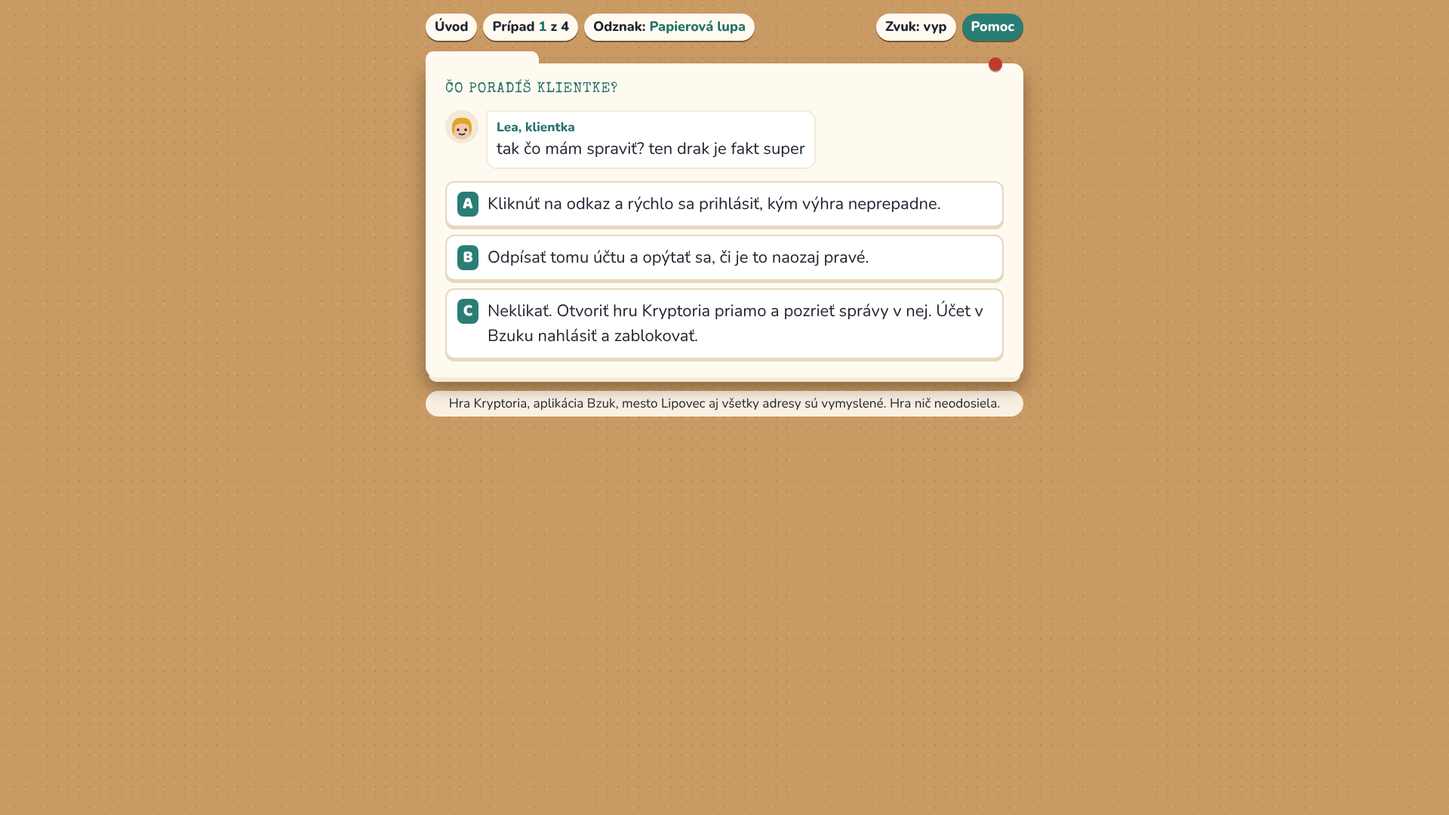
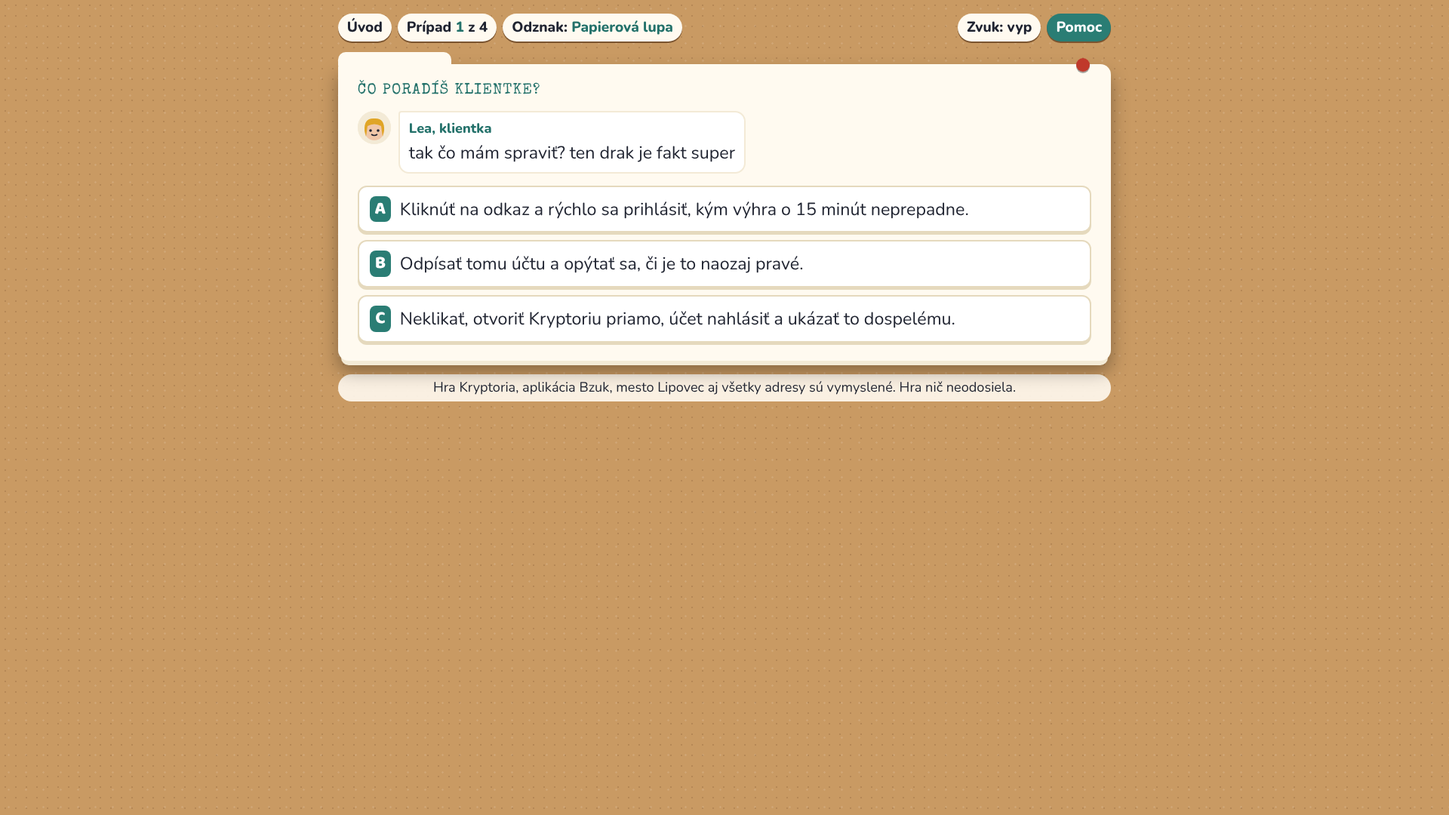
Re-reviews (sceptic PASS; fraud, psych, QA with small remaining fixes) and help-card sources
Claude-Session: https://claude.ai/code/session_01KckcPvBkZChCeHsaDHwFmr

Changed region(s): [[0.2188, 0.0, 0.7812, 0.5194]]

diff --git a/docs/reviews/psych-mvp.md b/docs/reviews/psych-mvp.md
@@ -151,3 +151,63 @@ Fix findings 3–6 and the teen track meets the bar.
 | 14 | Accessibility | PASS | minor 20 | minor 21 |
 
 Blocker 2 touches Red Line 8, so `sceptic-reviewer` should see it. Before a classroom pilot, a qualified human (a child or school psychologist) should review the money-mule wording and the help cards, as `docs/PSYCHOLOGY.md` already notes.
+
+---
+
+## Re-review 2026-11-25
+
+Reviewer: `learning-psychologist` (AI advisor, not a licensed psychologist). Method: I read the current `content/`, `src/ui/CaseView.tsx`, `src/ui/StartScreen.tsx`, `src/ui/Help.tsx`, `src/app.tsx` and `src/content/schema.ts`. I could not run git or the game in this session, so this is a close read of the play path in code, not a timed play-through. QA's play-test still covers how it plays.
+
+### Verdict: FAIL (2 small must-fix items, both one-line YAML edits)
+
+Both blockers are resolved, and so are 6 of the 7 majors. The two remaining must-fix items are small, but both work against the "harder" bar or the worked example, so I hold the verdict until they land.
+
+### Status of the first-round findings
+| # | Status | Note |
+|---|---|---|
+| 1 | Resolved | T1 note now uses `fraud-researcher`'s hedged wording („môže byť trestný čin“), followed in the same panel by „ešte dnes to povedz dospelému“. It no longer says Oto committed a crime. Suggestion S3 below. |
+| 2 | Resolved | J1 `verify`: „Neklikať, otvoriť Kryptoriu priamo, účet nahlásiť a ukázať to dospelému.“, with `tells_adult: true`. |
+| 3 | Resolved | „Lipovec · internetové prípady“ / „Vyber si trasu“, the agreed note, „odporúčame …“ ages, „Uzavreté: n/4“, and each card carries its own `data-theme`. |
+| 4 | Resolved for length | Teen best options are no longer clearly the longest: T1 10 words against 8–11, T4 11 against 4–13. In T2 (12 against 11) and T3 (13 against 11) the best is still slightly the longest, which is acceptable. A new cue has replaced the length cue, though: see must-fix R1. |
+| 5 | Resolved | The T4 brief now uses the wording proposed in finding 5. The school call has moved to `verify.known-numbers`. |
+| 6 | Resolved | The debrief now has 4 pages: Pravidlo, Stopy, Ak sa to už stalo, Stopa v príbehu. The exit buttons appear only on the last page, so every player passes „Ak sa to už stalo“, which meets Red Line 4. The help line shows on pages 3 and 4. Page 1 does not show the first found clue, which I accept. |
+| 7 | Partly resolved | The recall stage is built and filled for J2–J4 and T2–T4. It is unscored, gives calm feedback („Tentoraz nie.“ followed by the full rule), and the correct answer sits in a different position from case to case. The rule restatements are gone from the intros. The worked example is still not wired up: see must-fix R2. |
+| 8 | Resolved | T1 `lock_up.correct`: „… Oto to ešte večer povie otcovi a ráno idú spolu do banky.“ |
+| 9 | Resolved, with suggestions | Three topic cards: vydieranie / intímne fotky, kyberšikana, „Je mi veľmi ťažko“. See H1–H4. |
+| 10–19 | Resolved | T3 rule and quick-round item, T4 recovery order, reveal lines in T2 and T4, „Dax nie je skutočný človek. Je to maska.“, J4 rule and recap, J3 rule, stamp drawn in accent, help line for money and accounts in T2 and T3 (T1 points to Pomoc in its note). |
+| 20 | Open (deferred) | Evidence tabs. Still needed before the classroom pilot, for phones. |
+| 21 | Partly resolved | „Preskočiť úvod“ is on intros with more than 2 lines. Arc scenes have no skip link. Minor. |
+
+### Must-fix
+**R1. Teen (and junior) decisions: the only option that mentions an adult is always the best one.** (C10 Track fit, the teen "harder" bar)
+- Where: `decision.options` in T1–T4. The best option names „dospelému“, „mame“ or „otcovi“, and no other option does. J1–J4 follow the same pattern, which I accept for 11–12-year-olds.
+- Problem: after two cases a teen can choose by spotting the adult instead of judging the evidence. This is the same guessability problem as finding 4, with a different cue.
+- Smallest fix: let one distractor in at least two teen cases mention an adult but get the *timing* wrong, which is itself the lesson. Both stay `outcome: ok`, and their existing `calm` lines already say "ešte dnes":
+  - T3 `sleep.text`: **„Reštartovať mobil, ísť spať a ráno to povedať mame.“**
+  - T2 `warn-tomorrow.text`: **„Varovať kamarátov a zajtra to povedať otcovi.“**
+- Red Line 8 still holds, because the best option still tells an adult. `sceptic-reviewer` should confirm that an "adult, but later" option scored as `ok` is acceptable.
+
+**R2. J1 and T1 promise a worked example that does not happen.** (§4 Worked example, C13)
+- Where: the J1 intro says „Prvú ti ukážem. Odosielateľa Lea nepozná …“ and the T1 intro says „Prvú stopu ti ukážem: veľa peňazí za takmer nič.“, but `scan.pre_found` is empty in both files. The player is told the clue is shown, then has to find it, and the meter starts at 0.
+- Fix: in `j1-drak-zadarmo.yaml`, add `pre_found: [sender]` under `scan:`. In `t1-lahka-brigada.yaml`, add `pre_found: [pay]`. Then check that the clue-star minimums still work: either keep them, which makes the stars one clue easier, or raise `min` by 1.
+
+### Help topic cards (most sensitive)
+The wording is good: no shame, no fear, „Nie je to tvoja chyba.“ comes first, 116 111 is named in every card, the trusted adult is always there, there are no gendered forms, and „S tým netreba zostať osamote“ avoids *sám/sama*. The evidence advice („Správy nemaž … ale nikomu ich nepreposielaj“) is right for intimate images. These are suggestions, not blockers:
+- **H1. Grooming is covered only through images.** Red Line 8 names grooming, but the card's heading is about blackmail and photos. Add one sentence to `pomoc-vydieranie.text`, after „Nie je to tvoja chyba.“: **„Ak ťa niekto cudzí online žiada o tajnosť, fotky alebo stretnutie, povedz to dospelému.“** The heading could become **„Niekto ma vydiera, chce fotky alebo stretnutie“**.
+- **H2. The fear of being judged is the main reason young people stay silent.** Add to the end of `pomoc-vydieranie.text`: **„Na linke 116 111 ťa nikto nesúdi a nemusíš povedať meno.“** The anonymity part is already verified in the LDI entry.
+- **H3. The topic cards sit below 9 contact cards.** A distressed child has to scroll a long way. Add a short line under `intro` that points to them, for example **„Keď ide o niečo ťažké, karty nájdeš nižšie.“**, or move the topic section directly after 116 111.
+- **H4. The trusted-adult sentence appears twice on each topic card**: once in the card text and again in `help.trusted_adult`, which `Help.tsx` adds under every card. Drop the repeat in `Help.tsx` for topic cards.
+- The card advice lines still need `fraud-researcher` sources (noted in `help.yaml`). A qualified human should review these three cards before the pilot. That decision is Roman's.
+
+### Other suggestions
+- **S1.** T2 and T3: the best option is still 1–2 words longer than any other. If R1 is done, this does not matter.
+- **S2.** Recall runs before the brief, even when the previous case was not played. That is fine while cases unlock in order.
+- **S3.** T1 note, optional: replace „Platí to, aj keď si to človek neuvedomuje.“ with **„Preto je dôležité zastaviť čo najskôr.“** This keeps the reason to act and drops the extra weight. It needs `fraud-researcher` to accept it.
+- **S4.** Arc scenes have no „Preskočiť“ link (finding 21, the remaining part).
+
+### Teen bar, as played (code read)
+**Yes once R1 lands.**
+- **Different:** a neutral start screen, Ozvena styling on its own card, the podcast desk, the faceless „maska“ opponent, and a calm resolution for Oto.
+- **Harder:** 2–3 artefacts with decoys, recall of earlier rules, a T4 brief that no longer gives away the answer, chained "Hneď / Neskôr" consequences, and recovery drills.
+
+The one thing still making it easy is the adult cue in R1.

diff --git a/docs/reviews/qa-mvp.md b/docs/reviews/qa-mvp.md
@@ -169,3 +169,113 @@ I counted the words on screen along the best-answer path, plus the clue hints. R
 - No external requests in any run.
 - No forms or links: help entries show addresses as plain text, and the help phone numbers are also plain text (not `tel:` links).
 - All brands are fictional, and the in-game footer says so.
+
+## Re-test 2026-11-25
+
+**Build:** `main` at `c56c626`, `npm run build` + `vite preview` on port 4173. **Screenshots:** `docs/reviews/qa-shots/` were all replaced, at deviceScaleFactor 1. `10-bug-trust-trap-dots-vertical-j3-360.png` is now `10-trust-trap-dots-j3-360.png` because that bug is fixed. New shots are numbered 11–15.
+
+### Verdict: FAIL
+
+The fix round worked: F1 and F2 are fixed, and so are 11 of the 12 minor findings (F14 did not recur). Two things still block a PASS:
+
+1. **Fix F16** (new, major). The sticky scan bar hides the keyboard focus (WCAG 2.4.11).
+2. **Settle F3.** The cases are still about 7–9 minutes long. Either trim them to the GDD P6 limit (7 minutes or less for a slow reader), or have the producer record that the length is accepted, with a timed classroom pilot to confirm it.
+
+### What was tested
+
+- **All 8 cases**, played from the start screen through all 4 debrief pages (and the arc scenes), in these runs:
+  - best answers: 360×740 touch, 1920×1080, 320×568, and 640×400 (200 % zoom)
+  - wrong answers: 360×740 and 1440×900
+  - keyboard only: 1280×800 with reduced motion
+- **Also tested:** Back and Úvod in the middle of a case, the leave-case dialog, help (with its topic cards) on phone and desktop, reset, reload, offline reload, and locked case cards.
+- **axe-core** (WCAG 2.0/2.1/2.2 A and AA) on every screen in all axe runs: **0 violations**. With best-practice rules on, the only hit is `page-has-heading-one` (see F18).
+- **Network:** 0 requests left the origin, and there were 0 console or CSP errors.
+- **Test suites:** `npm test` 68/68. `npm run e2e` 30/30 (on port 4174).
+
+### Earlier findings
+
+| # | Status | Evidence |
+|---|---|---|
+| F1 clue hint below the fold | **Fixed** | The sticky bar keeps the meter and hint on screen after every tap at 360, 320 and 640×400 (`03-…`). |
+| F2 focus lost in trust-or-trap / lock-up | **Fixed** | Keyboard pass: focus goes to "Ďalej", then to the new card, then to the next lock card, then to "Uzavrieť prípad". It never goes to BODY. The recall step and debrief pages keep focus too. |
+| F3 case length | **Open** | See the estimate below. |
+| F4 dots vertical | Fixed | `10-trust-trap-dots-j3-360.png` |
+| F5 generic prompts | Fixed | J3 prompt and tip now fit the case. |
+| F6 sticky hover on touch | Fixed | — |
+| F7 Úvod / Back drop the case | Fixed | Both ask first, and only in the middle of a case (not in the intro or debrief). "Zostať" keeps the run. `13-leave-confirm-j1-360.png` |
+| F8 320 px overflow | Fixed | No horizontal overflow at 320. |
+| F9 Escape closes help | Fixed | Focus returns to "Pomoc". |
+| F10 reset focus and sound | Fixed | Focus stays on "Vymazať postup", and "Zvuk: zap" survives a reload. |
+| F11 teen meter contrast | Fixed | The empty ring is now `#8a94a2` on `#272c34`, about 5:1. |
+| F12 locked cards | Fixed | They are focusable with `aria-disabled`, and tapping one does nothing. |
+| F13 projector size | Fixed | The column and text are larger at 1920 (`05-…`). |
+| F14 e2e flake | Not seen | One CI retry has been added. |
+| F15 debrief heading wrap | Fixed | `06-…` |
+| L1 tap everything | Fixed | Decoys now cost the clue star in both tracks. |
+| L2 T1 legal note | Out of QA scope | Reworded by the writer. The fraud-researcher re-checks it. |
+| L3 why the clue star was missed | Fixed | The checklist shows the decoy count (`12-…page4`). |
+
+### New parts
+
+- **Recall at cases 2–4 (J2–J4, T2–T4):** a short, unscored question with clear feedback. Focus moves to "Ďalej". The right answer is a different letter in each case. `11-recall-j2-360.png`
+- **Paged debrief:**
+  - The 4 pages (Pravidlo, Stopy, Ak sa to už stalo, Stopa v príbehu) are short and readable on a phone.
+  - Each new page focuses its heading, and "Späť" works.
+  - The 116 111 line appears on pages 3 and 4.
+  - `06-…`, `12-…`
+- **Neutral start screen:** both tracks are framed equally, with "Uzavreté: n/4" on each card. `01-…`, `02-…`
+- **Help topic cards:** three calm cards, with 116 111 named in each and no alarm colour. `14-help-topic-cards-360.png`
+
+### Estimated time per case (same method as before)
+
+| J1 | J2 | J3 | J4 | T1 | T2 | T3 | T4 |
+|---|---|---|---|---|---|---|---|
+| ~7 | ~7 | ~9 | ~9 | ~7.5 | ~8 | ~8.5 | ~9 |
+
+- The content trims were cancelled out by what was added: the recall screen, and 3 more debrief taps with the help line shown twice.
+- Each track takes about 33 minutes. "Preskočiť úvod" saves about 20 seconds on a replay.
+
+### Remaining findings
+
+**F16 (major): The sticky scan bar hides keyboard focus on clues (WCAG 2.4.11 Focus Not Obscured, AA).**
+- **Steps:** At 360×740 open T1, then Tab through the clue lines.
+- **Expected:** Each focused line is visible.
+- **Actual:** The bar is 173–198 px tall. Clue and decoy tab stops end up fully hidden under it:
+
+| Viewport | Bar height | Hidden tab stops |
+|---|---|---|
+| 640×400 (200 % zoom) | 43 % of the viewport | 6 of 11 |
+| 320×568 | — | 6 of 11 |
+| 360×740 | — | 3 of 11 |
+| 1280×800 | — | 2 of 11 |
+
+- At 200 % zoom only about 140 px of evidence is left to read.
+- **Fix:**
+  - set `scroll-padding-bottom` to the bar height (or scroll the focused clue to the centre of the screen)
+  - on short viewports (for example `max-height: 500px`), make the bar compact or stop it being sticky
+- **Screenshot:** `15-bug-scan-bar-hides-focus-t1-zoom200.png`
+
+**F17 (minor): The leave-case dialog does not close with Escape, and it is not modal.**
+- The case behind it stays clickable, and the dialog has no `aria-modal`.
+- Suggestion: Escape should mean "Zostať", and the rest of the page should be inert while the dialog is open.
+
+**F18 (minor, best practice): Case and help screens have no `h1`.**
+- On the start screen, the `h2` eyebrow comes before the `h1`.
+- axe reports `page-has-heading-one` (best-practice only, not WCAG).
+
+**F19 (minor): On debrief page 4, the decoy note runs straight into the star label.**
+- It reads "…neťukať na všetko Označené neutrálne detaily: 2, najviac 1." with no punctuation in between.
+- Suggestion: put the note on its own line.
+
+### Learning issues
+
+**L4: The junior decoy limit is stricter than the teen one, and the label does not give the number.**
+- The rule is half the decoys, with a minimum of 1. That gives J1 and J3 a limit of 1 neutral tap, while teens get 2 out of 4–5.
+- The label only says "neťukať na všetko".
+- A careful 11-year-old who taps two neutral details loses the star and reads it as "I tapped everything".
+- Suggestion: say the number ("najviac 1 neutrálny detail") or allow 2 in the junior track.
+
+### Fun
+
+- The recall screen and the paged debrief make the end of a case feel lighter than the old single page.
+- Teen scans with 2–3 pieces of evidence are still a long scroll on a phone, so attention drops there (psych 20 evidence tabs, deferred).

diff --git a/docs/reviews/sceptic-mvp.md b/docs/reviews/sceptic-mvp.md
@@ -48,3 +48,34 @@ Reviewer: sceptic-reviewer · 2026-11-25 · Standard: CLAUDE.md Red Lines 1–9.
 - XSS: no `dangerouslySetInnerHTML` or `innerHTML`; all content renders as JSX text.
 - SW: same-origin GET only, own files only, scope `./`.
 - Dependencies: 4 runtime deps, `npm audit` reports 0 vulnerabilities. Actions are SHA-pinned, `persist-credentials: false`, `contents: read`.
+
+## Re-review 2026-11-25
+
+Reviewer: sceptic-reviewer · fixes in `5137c12..c56c626` (4 commits).
+
+### Verdict: PASS
+
+`npm run check` is green (typecheck, lint, validate, Vitest 68/68, red-line lint 11 files clean, build). `npm run e2e` is green: 30/30, desktop and phone-360. That includes the best path of all 8 cases, axe, offline play and the external-request guard.
+
+### First-review findings
+1. Blocker J1: **fixed.** The best option (`j1:96-103`) is "...a ukázať to dospelému" with `tells_adult: true`. `caseIssues` now fails any case that sets `risk` but has no best or ok option with `tells_adult`, and a unit test covers this.
+2. T1 legal note: **fixed** (`t1:228`). The note now uses "môže byť trestný čin" and "aj keď si to človek neuvedomuje", which matches the NBS source's wording ("don't realize ... that they are committing a criminal offense"). The next step follows the sentence. The fraud-researcher should sign off the final wording.
+3. CI e2e: **fixed.** The `e2e` job has `needs: checks` and `CI=1`, and runs Playwright without `--with-deps`.
+4. Fork PRs on the self-hosted runner: **fixed.** Both jobs have the `if:` guard on push or same-repo PR. The trigger is `pull_request`, not `pull_request_target`. The README notes the "require approval" setting.
+5. **Fixed.** `helpIssues` checks that the first entry is 116 111, and the test also checks a reordered list. `HelpLine` skips topic cards.
+6. **Fixed.** All 8 strings from the first review are now flagged, with negative tests.
+7. **Fixed.** A phone check (9 or more unmasked digits; help.yaml and sources.yaml exempt) and a mod-97 IBAN check, with tests.
+8. **Fixed.** T1 now says "Väčšinu pošleš ďalej, kúsok si necháš."; the percentages and the buyer chain are gone.
+9, 10, 11, 12. **Fixed.** The new wording is in j1:71, j2:68, j4:70 and j2:44. The stale comment is gone, and the T1 summary starts "Dax ponúka".
+13. (a) **Fixed.** The SW version hashes the bytes of every output file in `writeBundle`. (b) **Fixed.** `'unsafe-inline'` is removed, and src/ has no `style=` attributes. (c) **Fixed.** Reset now goes through `update`. (d) **Fixed.** The Google Fonts links are gone. (e) **Fixed.** A data-driven best-path test plays every case.
+
+### New in the diff: checked and clean
+- Help topic cards (`help.yaml:72-95`) for blackmail or intimate-photo requests, cyberbullying, and "Je mi veľmi ťažko". They are calm, contain no graphic detail and open with "Nie je to tvoja chyba". Each one names 116 111 and lists Linka detskej istoty first. The distress card adds 112 last. The cards appear only on the help screen, use no alarm colour, and the validator requires 116 111 on every card. No case covers sextortion, grooming, self-harm or bullying.
+- Recall steps (J2-J4, T2-T4): unscored, exactly one correct answer (enforced by the schema), calm feedback ("Tentoraz nie."), no "!".
+- Neutral start screen and title. No tracking. Progress is read from localStorage only.
+- No new `innerHTML`, fetch, links or forms.
+
+### Remaining findings (all non-blocking)
+1. **minor** · `src/content/schema.ts:250` and `content/cases/junior/j3-zamok-na-ucte.yaml` · `risk` is opt-in and defaults to `[]`, so the Red Line 8 trusted-adult rule only applies when the author remembers to declare a risk. J3 (a stranger, Tieň, inside the club account) declares none. Its best option already involves the teacher, but it is not flagged. **Fix:** make `risk` a required field (an explicit `[]` is allowed), or have the validator require it whenever `tells_adult` appears on any option. In J3, set `risk: [stranger]` and `tells_adult: true` on `lock`.
+2. **minor** · `content/help.yaml:74` · The file's own comment says the advice lines on the topic cards (neplať, nemaž, zablokuj, nepreposielaj) have no source yet. **Fix:** the fraud-researcher adds sources (for example LDI, Ochráň ma, BIK) before release.
+3. **minor** · `content/help.yaml:75-81` · Grooming is covered only through intimate-photo requests. An adult stranger who flatters, asks for secrecy or wants to meet has no card. **Fix:** consider a calm card such as "Cudzí človek mi píše a chce, aby to zostalo tajomstvo", with 116 111 first.

diff --git a/docs/reviews/fraud-mvp.md b/docs/reviews/fraud-mvp.md
@@ -192,3 +192,48 @@ Keep the wording as is. Don't strengthen any of them into "always".
   - Ochráň ma is shown only for illegal content, not scams. Stopline is correctly omitted.
   - 112 is shown for immediate danger. The order (talk, then report, then emergency) matches PSYCHOLOGY §3.
 - **Every source id cited** in the 8 cases and in help.yaml comments exists in `content/sources.yaml`.
+
+---
+
+## Re-review 2026-11-25
+
+Reviewer: fraud-researcher. I could not run `git diff 5137c12..HEAD`, because I have no shell here. Instead I read the current `content/` files in full against the first review.
+
+### Verdict: FAIL (0 blockers, 2 majors, 1 minor)
+
+Both remaining majors are one-line fixes. Once they are applied, the content passes.
+
+### First-review findings
+- **Applied correctly:** 1 (T1 note, with an accurate rewording of the second sentence), 2 (T3 e-mail, code line and `reset` hint), 4, 5, 6, 7, 8, 9, 10, 11, 12 and 13.
+- **Major 3 is NOT applied.** `docs/PSYCHOLOGY.md` line 62 still says "banka aj polícia sa často chcú rozprávať s dospelým". Use the replacement from finding 3 above:
+  ```
+  Pri peniazoch, účtoch a vyhrážkach to rieš s dospelým, ktorému dôveruješ. Dvaja ľudia konajú rýchlejšie a dospelý ti pomôže zavolať do banky aj ísť na políciu.
+  ```
+  Also delete "(`fraud-researcher` checks the second clause.)".
+
+### New content
+- **`recall` questions (J2, J3, J4, T2, T3, T4): correct.** Each correct answer matches the previous case's `debrief.rule` word for word. Every distractor is advice the earlier case shows to be unsafe.
+- **Changed case texts (T1, T3, J1, J4): correct.** No new factual claims.
+- **R1 [major] help · `pomoc-vydieranie` → `text`.**
+  - "ale nikomu ich nepreposielaj" has no source. No page I opened says it: Garda/Europol "Say No!", BIK teachers, BIK parents, Luxembourg and Slovenian police, Ochráň ma.
+  - Every other line is sourced. "Neplať" and "nič ďalšie neposielaj" come from ie-garda-say-no-2017, eu-bik-sextortion-parents-2025 and lu-police-sextorsion-2021. "Nemaž, dôkazy" comes from ie-garda-say-no-2017 ("Don't delete anything"). "Zablokuj" comes from ie-garda-say-no-2017 and eu-bik-sextortion-parents-2025. "Nie je to tvoja chyba" comes from sk-ochranma-ibsa and eu-bik-sextortion-teachers. The trusted adult and 116 111 come from eu-bik-sextortion-teachers and sk-ldi-home.
+  - Replacement `text`:
+  ```
+  Nie je to tvoja chyba. Neplať a nič ďalšie neposielaj. Správy nemaž, sú to dôkazy.
+  Odosielateľa zablokuj. Povedz to dospelému, ktorému dôveruješ, alebo zavolaj na 116 111.
+  ```
+- **`pomoc-kybersikana`: PASS.** Sources: sk-minv-kybersikanovanie-brochure, sk-vudpap-kybersikanovanie-2024, sk-skcert-cyberbullying-2018, and sk-zodpovedne-kybersikanovanie for "not your fault".
+- **`pomoc-je-mi-tazko`: PASS.** Sources: sk-ldi-home, sk-minedu-krizove-linky-2025, eu-youreurope-emergency-faq-sk.
+- **R2 [minor] help.yaml lines 74–75 comment.** It is stale. Replace it with:
+  ```
+  # Advice sources (docs/SOURCES.md "Help topic cards"): vydieranie: ie-garda-say-no-2017, eu-bik-sextortion-parents-2025,
+  # eu-bik-sextortion-teachers, sk-ochranma-ibsa; kybersikana: sk-minv-kybersikanovanie-brochure, sk-vudpap-kybersikanovanie-2024,
+  # sk-zodpovedne-kybersikanovanie, sk-skcert-cyberbullying-2018; je-mi-tazko: sk-ldi-home, sk-minedu-krizove-linky-2025.
+  ```
+
+### Gap
+I found no Slovak official page with step-by-step sextortion advice for children. I checked Polícia SR/MV SR, NKS, Ochráň ma, IPčko and the UNICEF SK guide. The steps therefore rest on EU sources. Europol's own "Say No!" page did not render, so I used the Garda relay instead.
+
+### What I changed
+- `content/sources.yaml`: added 11 sources, all opened today: eu-bik-sextortion-teachers, eu-bik-sextortion-parents-2025, eu-bik-sexual-extortion-2025, ie-garda-say-no-2017, lu-police-sextorsion-2021, si-policija-say-no, sk-skcert-cyberbullying-2018, sk-minv-kybersikanovanie-brochure, sk-vudpap-kybersikanovanie-2024, sk-zodpovedne-kybersikanovanie, sk-ochranma-ibsa.
+- `docs/SOURCES.md`: new section "Help topic cards", with each advice line mapped to its sources.

diff --git a/docs/STATUS.md b/docs/STATUS.md
@@ -18,3 +18,4 @@ Playable Slovak web game with two tracks (Junior 11–12, Teen 13–15), 4 cases
 - 2026-11-25 · scenario-writer · MVP review fix round, content side (8 cases, help.yaml, tracks.yaml) · done (awaiting fraud-researcher re-check, sceptic, learning-psychologist) · applied: J1 trusted-adult best option (RL8 blocker), T1 legal note in fraud wording + next step + Oto supported + report/warn line, T3 SIM-swap code logic + operator line, J4/J1/T2 sources, help police/SK-CERT/Viac ako NI(c)K, option lengths varied, T4 brief no longer gives the answer, J3/J4/T3 rules, T4 recovery order, reveal lines, signature and SMS decoys, misleading hints; trimmed intros, hints, quick rounds (J2, J4, T3, T4 to 4 items; J3 to 4) and T2 lock-up; est. ~6–7 min per case; J1 kept at 5 quick-round items because tests pin it; TODO when schema documents them: recall stage (cut rule restatements from intros), sextortion/cyberbullying topic help cards (psych #9)
 - 2026-11-25 · frontend-engineer · MVP review fix round, code side · done (awaiting sceptic, qa-playtester, learning-psychologist) · QA F1 sticky scan bar (hint + count on screen at 360 px), F2 focus kept in trust-or-trap and lock-up, F4 dots row, F5 `trust_or_trap.prompt` + `scan.tip`, F6 hover only on hover devices, F7 leave-case confirm for Úvod and browser Back, F8 meter wraps, F9 Escape closes help, F10/13c reset saves settings and keeps focus, F11 teen meter contrast, F12 locked cases focusable (aria-disabled), F13 projector size, F14 one CI retry, F15 + psych 18 stamp in accent; L1 decoy limit by default in every clue star (half the decoys, min 1), L3 decoy count in checklist; psych 3 neutral start screen „Lipovec · internetové prípady“ with per-track themed cards and „Uzavreté: n/4“, psych 6 debrief in 4 pages, psych 7 optional `recall` stage + `scan.pre_found`, psych 21 „Preskočiť úvod“; help topic cards (`topic`, `contacts`, `topics_title`); sceptic 1 optional `risk` + `tells_adult` validator rule, 3 e2e job in CI (Chromium installed only if missing), 4 no fork PRs on the self-hosted runner, 5 validator: 116 111 first help entry, 6 more gender shapes, 7 phone + IBAN lint, 13a SW cache hashes every built file, 13b no `unsafe-inline` styles (e2e fails on console/CSP errors), 13d prototypes without Google Fonts, 13e data-driven best-path e2e for all 8 cases (30 e2e green) · deferred: psych 20 evidence tabs, arc-scene skip, F3 case length (content/producer); writer to fill `recall`, `risk`/`tells_adult`, junior clue-star labels (they now carry a decoy limit), J3 `trust_or_trap.prompt`; producer: manifest name is still „Kancelária STOPA“
 - 2026-11-25 · scenario-writer · recall (J2–J4, T2–T4; rule recaps removed from intros), risk + tells_adult (J1, J2, J4, T1–T4; J4 best and T4 best now include telling an adult), J3 quick-round prompt, junior clue-star labels with "neťukať na všetko", help.yaml topic cards (vydieranie/intímne fotky, kyberšikana, je mi ťažko; 116 111 first, verified contacts only) · done (awaiting fraud-researcher: source for the topic-card advice lines; sceptic; learning-psychologist) · validate/redline/test/build pass; e2e 26/30: 2 engineer tests need updating for the new content (help test getByText("116 111") is now ambiguous; QA F1 test clicks the first .btn, which is the T2 recall screen)
+- 2026-11-25 · qa-playtester · re-test after fix rounds (c56c626): 8 cases × 360/320/640×400/1440/1920, keyboard, axe, Back/leave, help topics, offline · done: FAIL · docs/reviews/qa-mvp.md §Re-test; F1, F2 and 11 of 12 minors fixed (F14 not recurring); to pass: F16 sticky scan bar hides keyboard focus (WCAG 2.4.11), F3 cases still ~7–9 min (trim or producer accepts + pilot); minors F17–F19, L4; screenshots refreshed

diff --git a/docs/SOURCES.md b/docs/SOURCES.md
@@ -178,4 +178,26 @@ Not on the screen, and why
 - **CSIRT.SK incident@csirt.sk**: only for fake state websites, and not re-checked in this session. It isn't relevant to these cases.
 - **Linka detskej dôvery's second (mobile) number**: not marked free. Don't show it.
 
+## Help topic cards (Red Line 8): advice lines, fact check 2026-11-25 (re-review)
+
+Calm help cards only, never cases. Each advice line below was checked against a page opened on 2026-11-25.
+
+| Card | Advice line | Sources |
+|---|---|---|
+| vydieranie | "Nie je to tvoja chyba." | sk-ochranma-ibsa ("nie ste na vine"), eu-bik-sextortion-teachers, eu-bik-sexual-extortion-2025 |
+| vydieranie | "Neplať" | ie-garda-say-no-2017, eu-bik-sextortion-parents-2025, eu-bik-sextortion-teachers, lu-police-sextorsion-2021 |
+| vydieranie | "nič ďalšie neposielaj" | ie-garda-say-no-2017 ("Don't share more"), lu-police-sextorsion-2021 |
+| vydieranie | "Správy nemaž, sú to dôkazy" | ie-garda-say-no-2017 ("Preserve evidence. Don't delete anything."), eu-bik-sextortion-parents-2025, eu-bik-sextortion-teachers |
+| vydieranie | "nikomu ich nepreposielaj" | **NOT sourced.** No opened page says it. Removed in the re-review replacement. |
+| vydieranie | "Odosielateľa zablokuj" | ie-garda-say-no-2017, eu-bik-sextortion-parents-2025, lu-police-sextorsion-2021, si-policija-say-no |
+| vydieranie | tell a trusted adult, 116 111 | eu-bik-sextortion-teachers, si-policija-say-no, sk-ldi-home |
+| kybersikana | "Nie je to tvoja chyba." | sk-zodpovedne-kybersikanovanie ("Nespravil si nič zlé") |
+| kybersikana | "Neodpovedaj." | sk-minv-kybersikanovanie-brochure, sk-vudpap-kybersikanovanie-2024, sk-skcert-cyberbullying-2018 |
+| kybersikana | save messages as evidence | sk-minv-kybersikanovanie-brochure, sk-zodpovedne-kybersikanovanie, sk-skcert-cyberbullying-2018 |
+| kybersikana | block | sk-minv-kybersikanovanie-brochure, sk-vudpap-kybersikanovanie-2024, sk-zodpovedne-kybersikanovanie |
+| kybersikana | tell a trusted adult, 116 111 | sk-minv-kybersikanovanie-brochure, sk-zodpovedne-kybersikanovanie, sk-skcert-cyberbullying-2018 |
+| je-mi-tazko | 116 111 nonstop and free; tell an adult; 112 if in danger now | sk-ldi-home, sk-minedu-krizove-linky-2025 (crisis lines for psychological support), eu-youreurope-emergency-faq-sk |
+
+Gaps: no Slovak official page with step-by-step sextortion advice for children was found (Polícia SR, NKS, Ochráň ma, IPčko, UNICEF SK guide checked). The sextortion steps rest on EU sources (BIK, and EU national police relaying Europol's "Say No!"). The Europol campaign page itself did not render. Contacts on the cards are only those already verified in the table above.
+
 Note for the Scam Atlas SK edition (I did not write to that repo): `justice.gov.sk` "Dôležité kontakty" now (modified 2026-11-03) gives Linka detskej dôvery as 0800 221 021, 8.00–20.00. That matches nks.gov.sk and the operator, so the number conflict recorded in its `where-to-report.draft.sk.yaml` is resolved.
